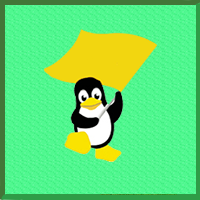
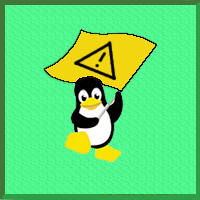
Changed flag image; Translation bug fixed in browser; Trying to use the "undo" button in Android; Font size optimized; Fixed vibration bug.

diff --git a/www/js/minesweeper.js b/www/js/minesweeper.js
@@ -299,11 +299,13 @@ function GUI_user_set_bomb(x, y) {
 function GUI_user_set_flag(x, y) {
 	switch(cells[x][y].type) {
 		case TYPE.DEFAULT:
+			vibrate_now(get_option("short_vibration", "d"));
 			cells[x][y].type = TYPE.FLAGGED;
 			increase_flags_counter();
 			GUI_set_flag(x, y);
 			break;
 		case TYPE.FLAGGED:
+			vibrate_now(get_option("short_vibration", "d"));
 			cells[x][y].type = TYPE.DEFAULT;
 			decrease_flags_counter();
 			GUI_set_reset(x, y);
@@ -346,11 +348,13 @@ function GUI_set_nothing(x, y, n) {
 	);
 }
 function GUI_set_side(side) {
+	var num = side - MINESWEEPER.SIDE_BORDERS;
 	field_el
-		.width(side - MINESWEEPER.SIDE_BORDERS)
-		.height(side - MINESWEEPER.SIDE_BORDERS)
-		.css("maxWidth", (side - MINESWEEPER.SIDE_BORDERS) + "px")
-		.css("maxHeight", (side - MINESWEEPER.SIDE_BORDERS) + "px");
+		.width(num)
+		.height(num)
+		.css("maxWidth", (num) + "px")
+		.css("maxHeight", (num) + "px")
+		.css("font-size", (0.8*num) + "px");
 }
 function GUI_bind_cell_events() {
 	field_el.on('tap', function() {
@@ -362,7 +366,6 @@ function GUI_bind_cell_events() {
 		}
 		GUI_user_set_bomb(x, y);
 	}).on('taphold', function() {
-		vibrate_now(get_option("short_vibration", "d"));
 		var x = GUI_get_x(this);
 		var y = GUI_get_y(this);
 		if(first_tap) {
@@ -387,7 +390,7 @@ function GUI_alert_user_win() {
 			cells[x][y].type = TYPE.NOTHING; // In order to deny clicks
 		}
 	}
-	$("#popup-win").popup("open", {transition: "flow"});
+	$("#popup-win").popup("open");
 	update_stats(true); // true -> win
 }
 function GUI_alert_user_lose() {
@@ -400,7 +403,7 @@ function GUI_alert_user_lose() {
 			cells[x][y].type = TYPE.NOTHING; // In order to deny clicks
 		}
 	}
-	$("#popup-lose").popup("open", {transition: "slideup"});
+	$("#popup-lose").popup("open");
 	update_stats(false); // false -> lose
 }
 

diff --git a/www/js/index.js b/www/js/index.js
@@ -33,6 +33,7 @@ var app = {
 	// Bind any events that are required on startup. Common events are:
 	// 'load', 'deviceready', 'offline', and 'online'.
 	bindEvents: function() {
+		setRequestedOrientation(ActivityInfo.SCREEN_ORIENTATION_PORTRAIT);
 		document.addEventListener("deviceready", this.onDeviceReady, false);
 		document.addEventListener("pause", this.onDevicePause, false);
 		document.addEventListener("backbutton", this.onBackKeyDown, false);
@@ -73,6 +74,15 @@ var app = {
 		SOUNDS.INTRO_LOOP.audio.pause(); // Would you be so kind to KILL IMMEDIATELY THIS FU***NG JINGLE WHEN I WANT TO STOP IT!?!? o__o'
 	},
 	onBackKeyDown: function() {
+		// First, close all popups!
+		$("#popup-lose").popup("close");
+		$("#popup-win").popup("close");
+		$("#popup-help").popup("close");
+
+		// If you are in setting page, turn to main page!
+		$.mobile.changePage("index.html");
+
+		// Show the "tap another" message
 		GUI_prevent_exit();
 		return false;
 	}

diff --git a/www/index.html b/www/index.html
@@ -92,9 +92,9 @@
 			<li data-l10n-id="tips-3.innerHTML">Tap and <b>Hold</b> the cell you think there is a bomb into to place a <b class="flag">flag</b> on it!</li>
 			<li data-l10n-id="tips-4.innerHTML">Uncover all the hint-cells to win the game!</li>
 		</ul>
-		<center>
-			<h3 data-l10n-id="good-luck">Good Luck!</h3>
-		</center>
+		<p>
+			<button type="button" data-rel="back" data-role="button" class="ui-btn-active play" data-l10n-id="good-luck">Good Luck!</button>
+		</p>
 	</div>
 	<div data-role="popup" id="popup-win">
 		<a href="#" data-rel="back" data-role="button" data-icon="delete" data-iconpos="notext" class="ui-btn-right" data-l10n-id="close-button">Close</a>

diff --git a/www/js/jquery-events.js b/www/js/jquery-events.js
@@ -88,6 +88,7 @@ $(document).ready(function() {
 		splash.hide();
 		$("#popup-lose").popup("close");
 		$("#popup-win").popup("close");
+		$("#popup-help").popup("close");
 		var bombs = $("#page-start-new-game select[name='bombs']").val();
 		var n_x   = $("#page-start-new-game select[name='n_x']").val();
 		if(!new_game(bombs, n_x)) {
@@ -172,7 +173,7 @@ $(document).ready(function() {
 
 	if(!app.IS_APP) {
 		// Localization
-		html10n.localize(get_option("language"));
+		do_localization();
 
 		// SOUNDS in DOM if browser
 		for(var jingle in SOUNDS) {
